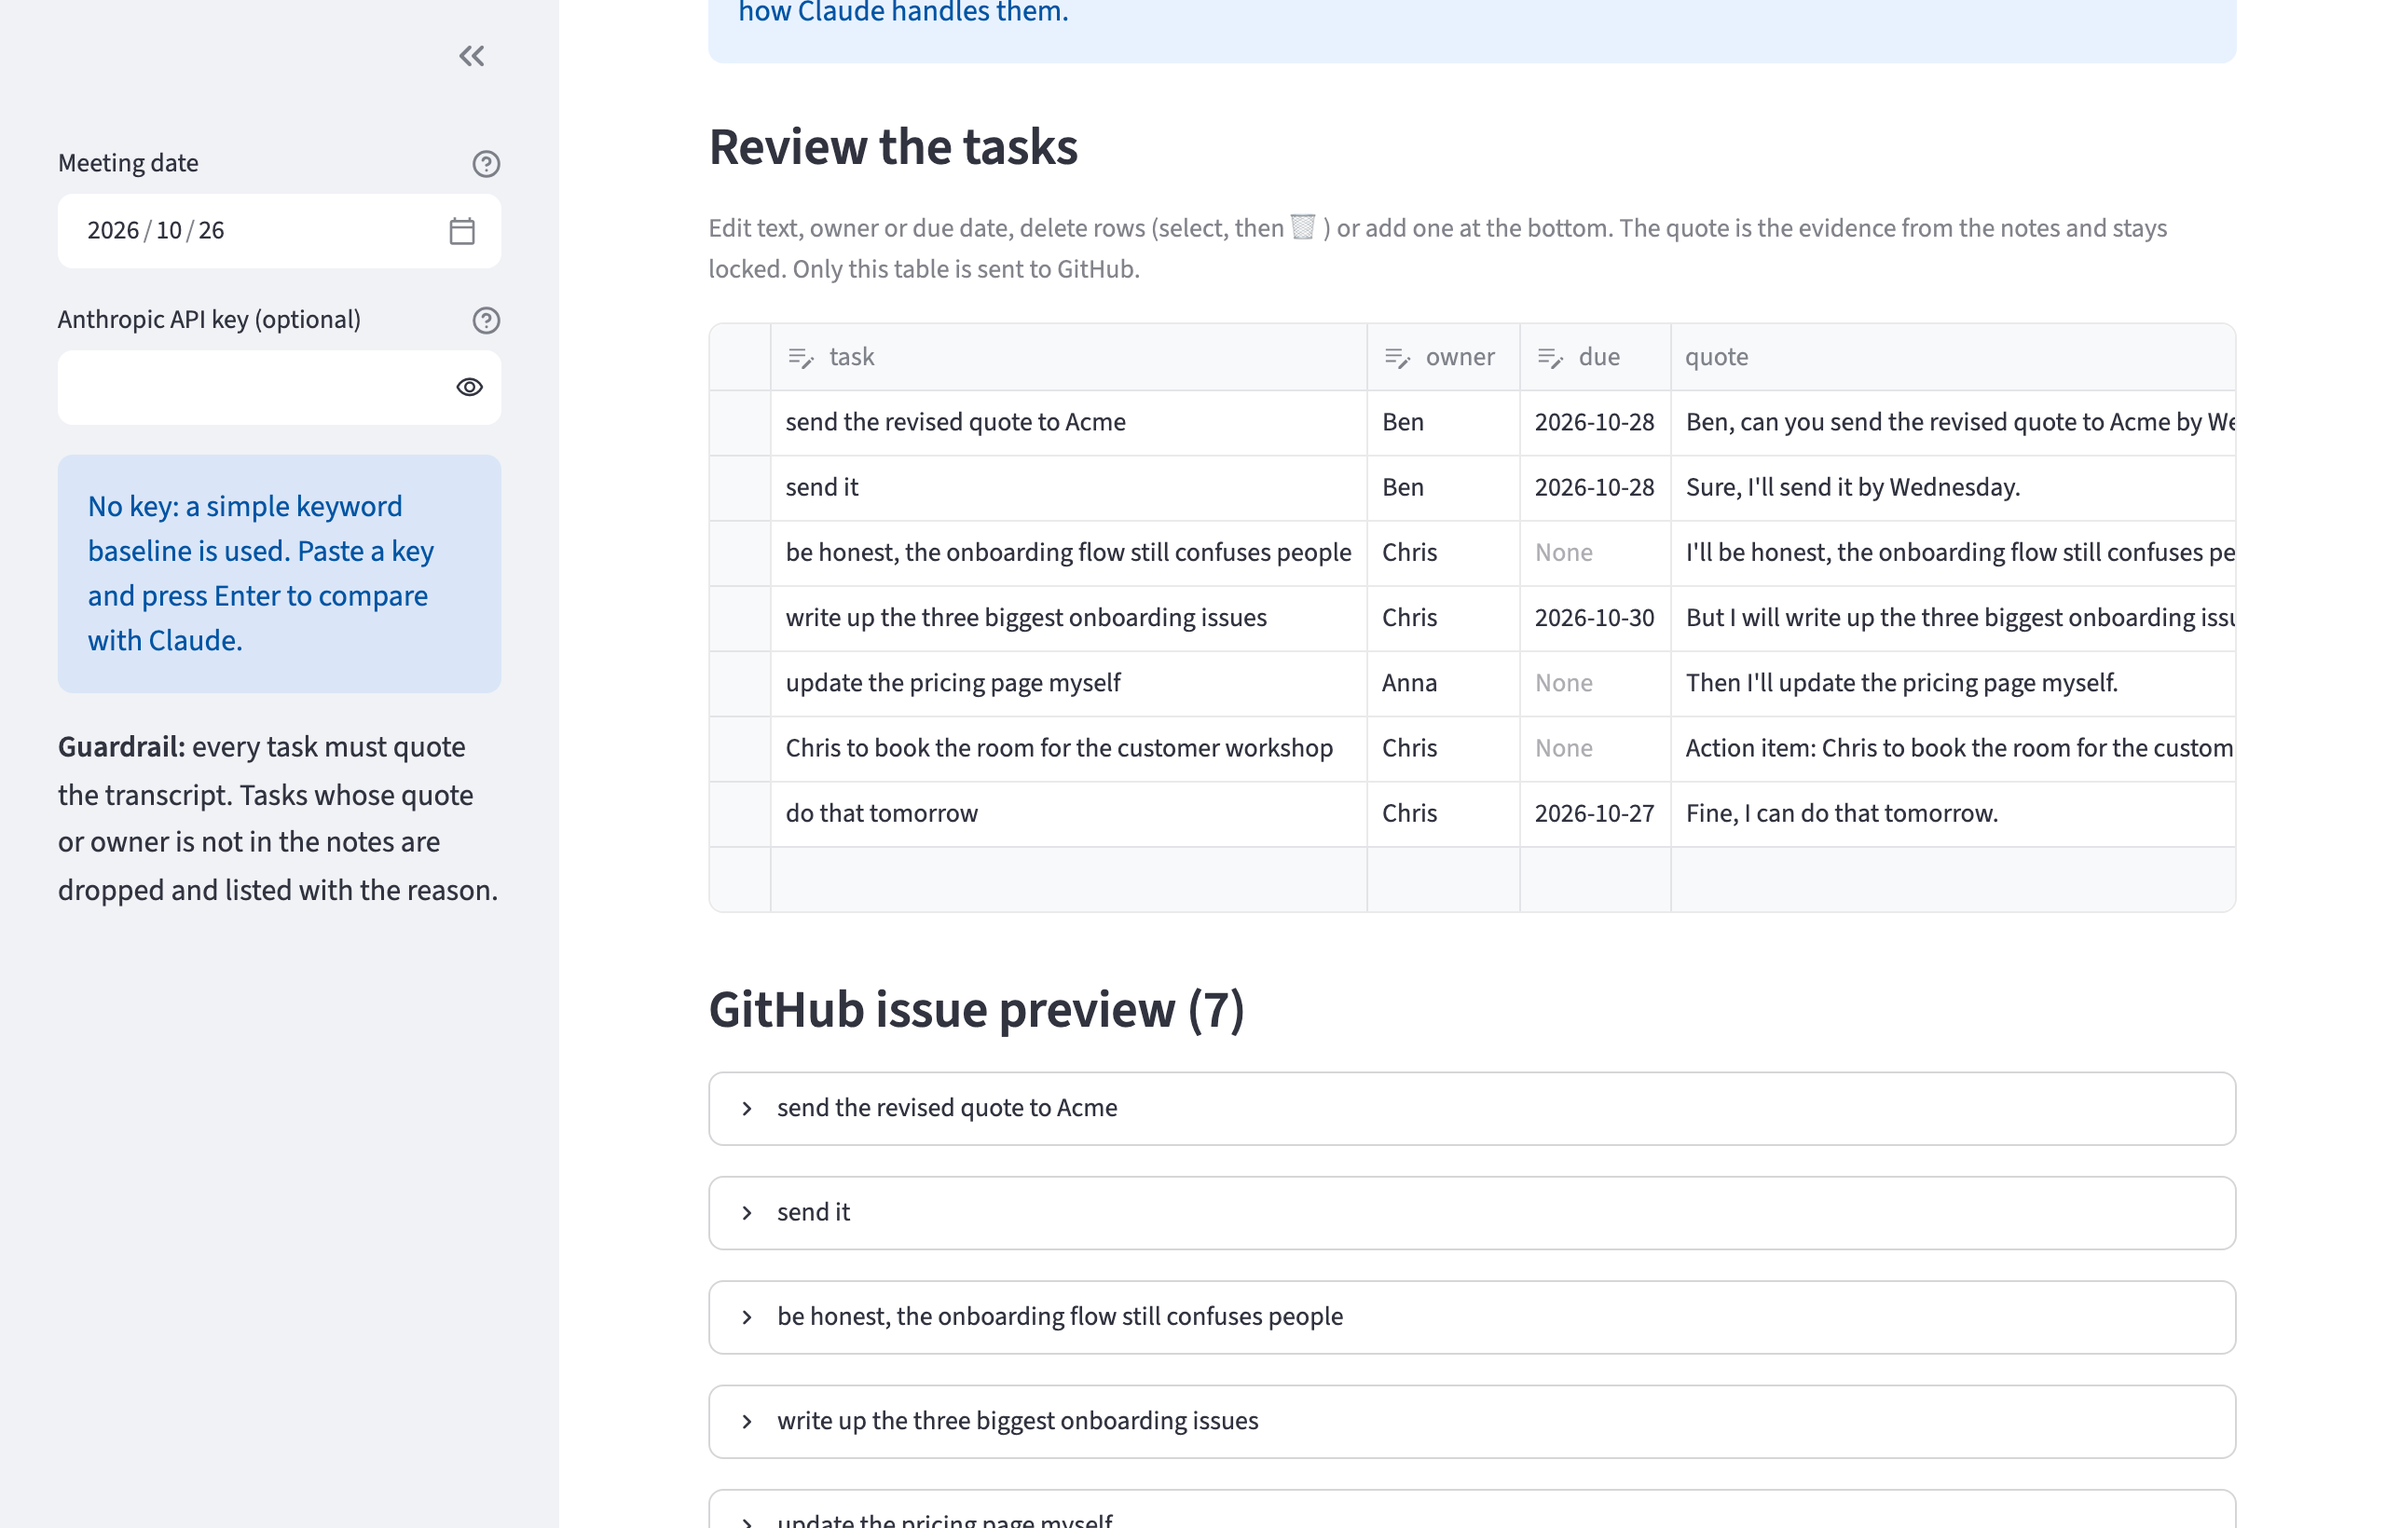
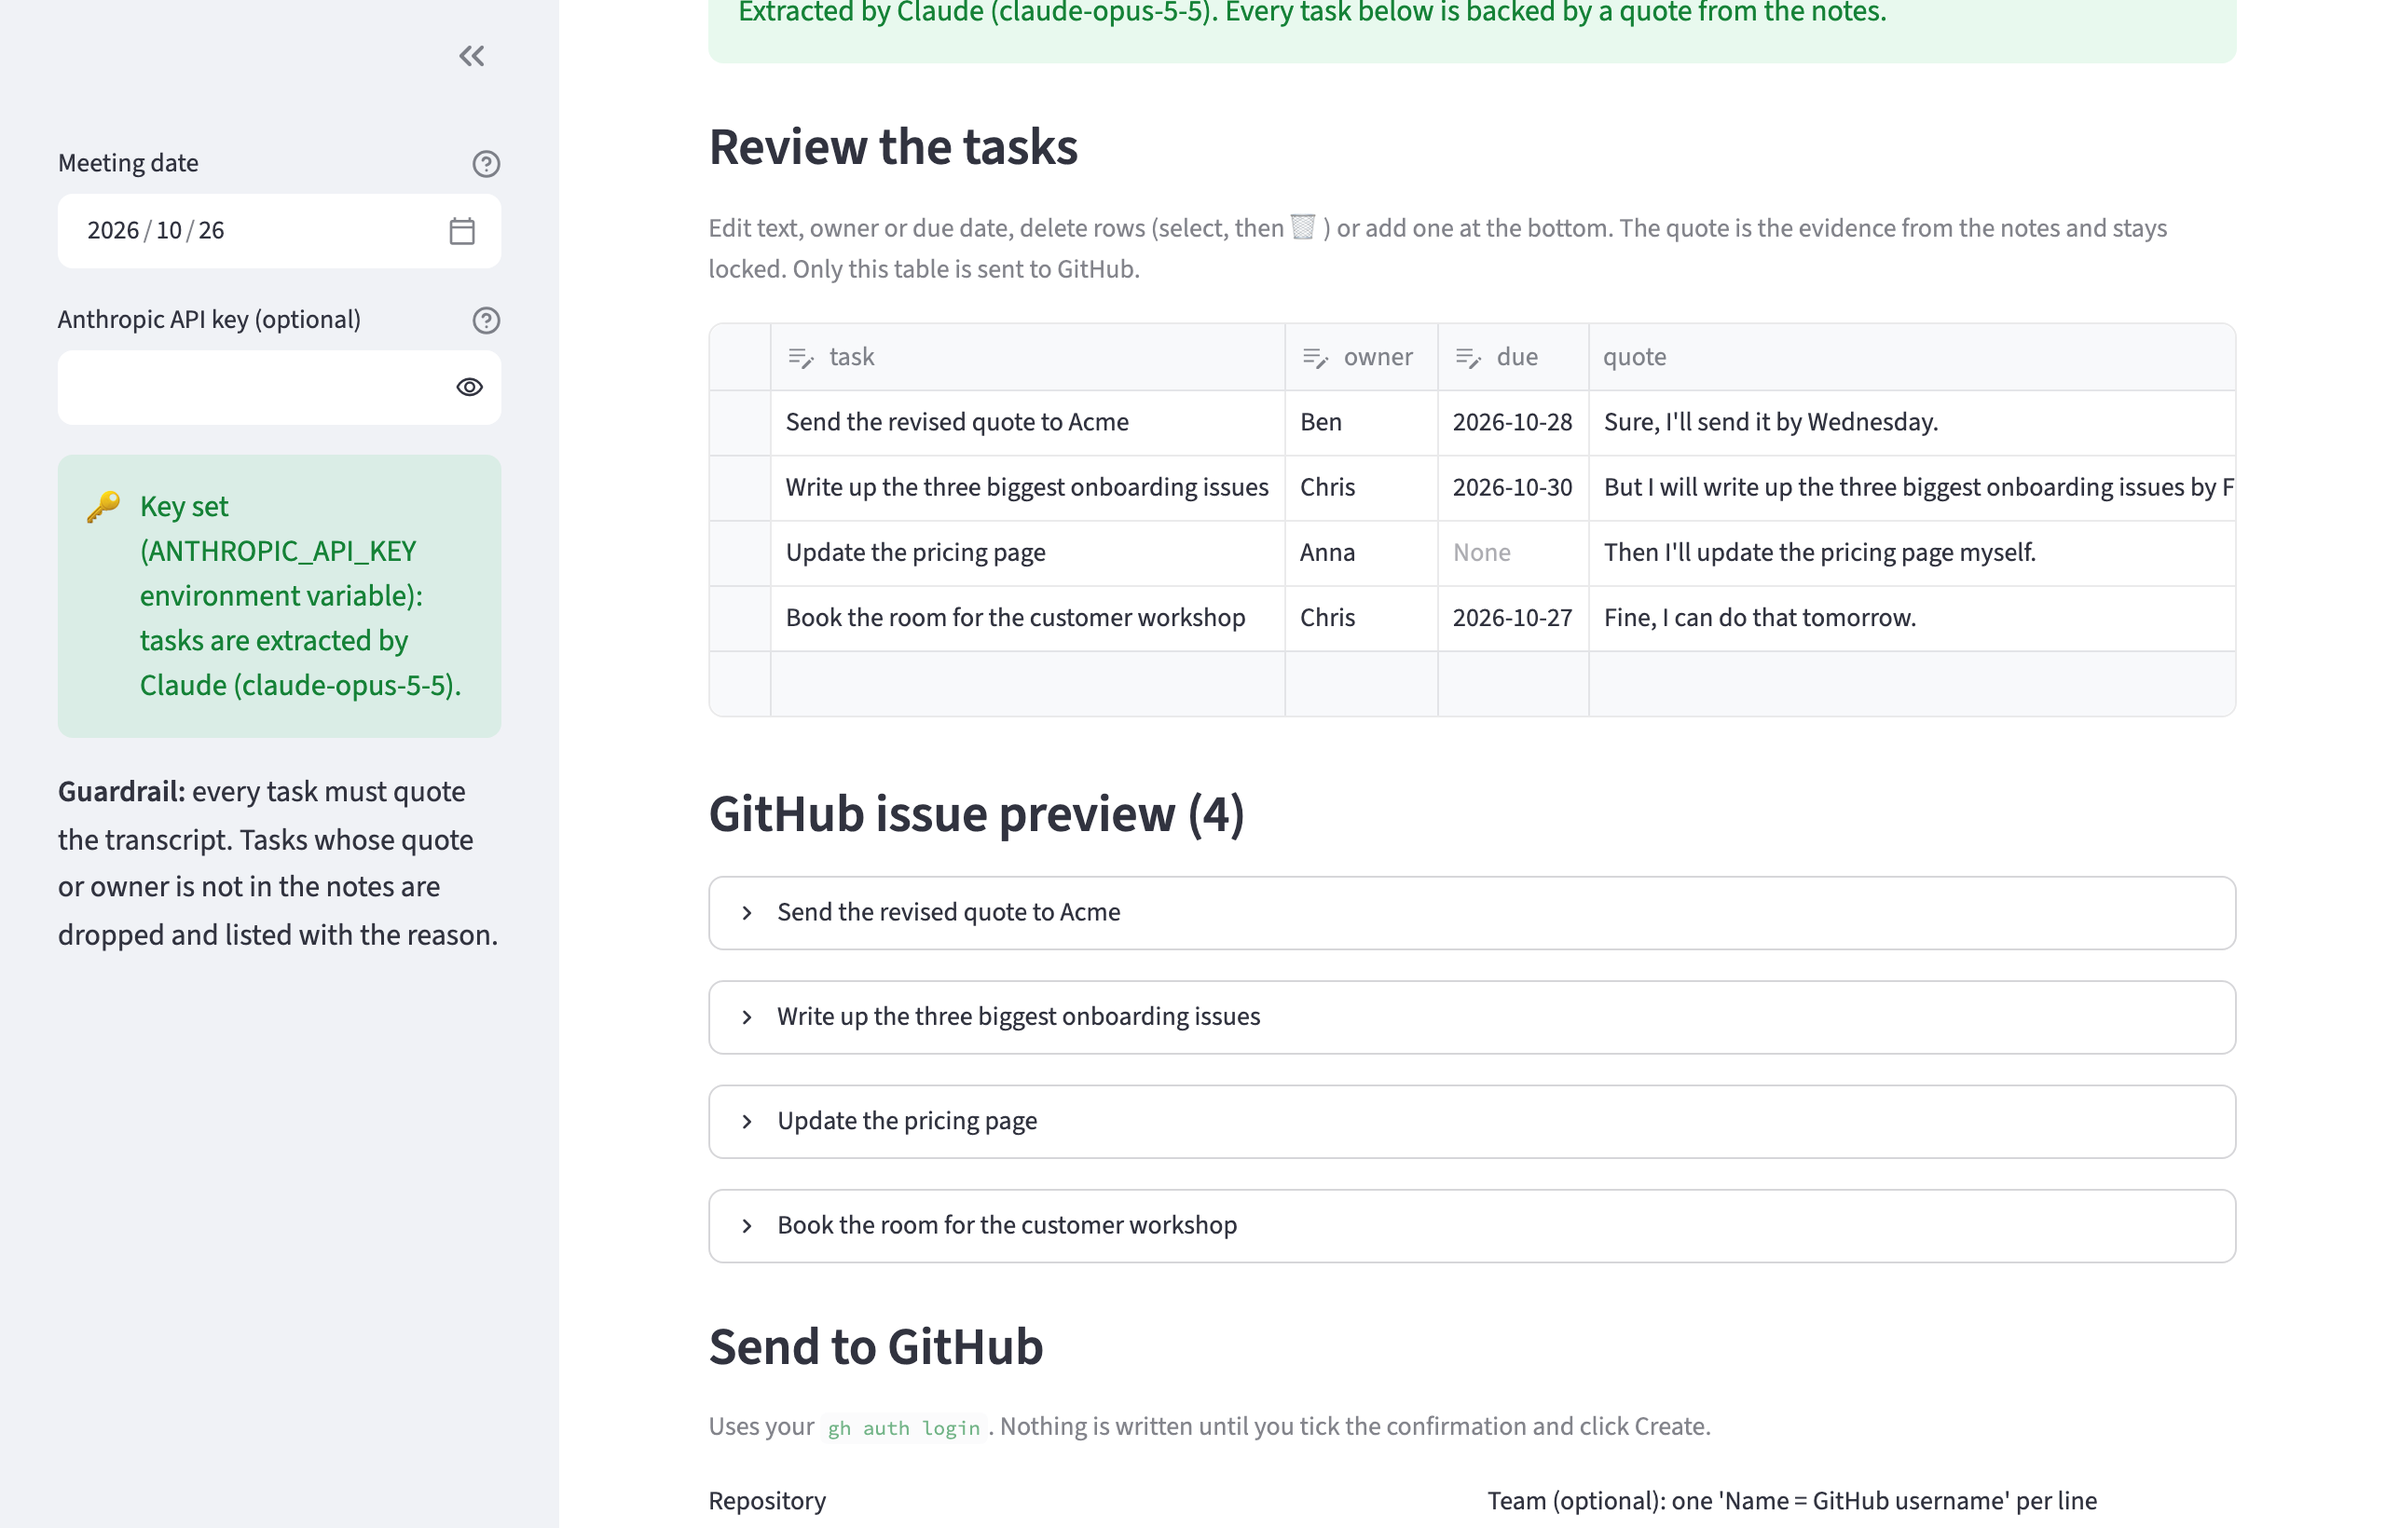
README: Claude vs baseline screenshots, verified end-to-end issue creation

diff --git a/README.md b/README.md
@@ -13,16 +13,25 @@ against a keyword baseline, on a standard and a hard set of meetings.
 ![Meeting notes input](docs/preview-input.png)
 
 **2. Review the tasks.** Edit text, owner or due date, delete rows or add your own. The quote from the
-notes stays locked as evidence, and the issue preview below always shows what will be sent. This
-screenshot shows the keyword baseline (no API key) with the mistakes the eval is built to catch, like
-"be honest…" counted as a task and the quote request counted twice, which you would delete here:
+notes stays locked as evidence, and the issue preview below always shows what will be sent. Claude
+finds exactly the four real tasks in the sample meeting, each with owner, resolved deadline and quote:
 
-![Editable task table and GitHub issue preview](docs/preview-review.png)
+![Claude's tasks in the editable review table with GitHub issue preview](docs/preview-review.png)
+
+For comparison, the keyword baseline (no API key) on the same notes: seven "tasks", including
+"be honest, the onboarding flow still confuses people" and the quote request counted twice:
+
+![Keyword baseline on the same meeting](docs/preview-baseline.png)
 
 **3. Send to GitHub.** Enter the repository and optionally who is who on GitHub. "Check repo" shows
-what would happen and writes nothing; issues are only created after an explicit confirmation:
+what would happen and writes nothing; issues are only created after the confirmation tick:
 
-![Send to GitHub with repo check and assignees](docs/preview-send.png)
+![Send to GitHub with repo check, assignee and confirmation](docs/preview-send.png)
+
+Verified end to end on a real repository: the four tasks above became issues #1 to #4 with the
+`meeting-task` label, Ben's task assigned through the team mapping, and owner, deadline and quote in
+the issue text. A second "Check repo" reported all four as already open and skipped them. (The test
+issues were closed afterwards.)
 
 ## Run it locally (step by step)
 
